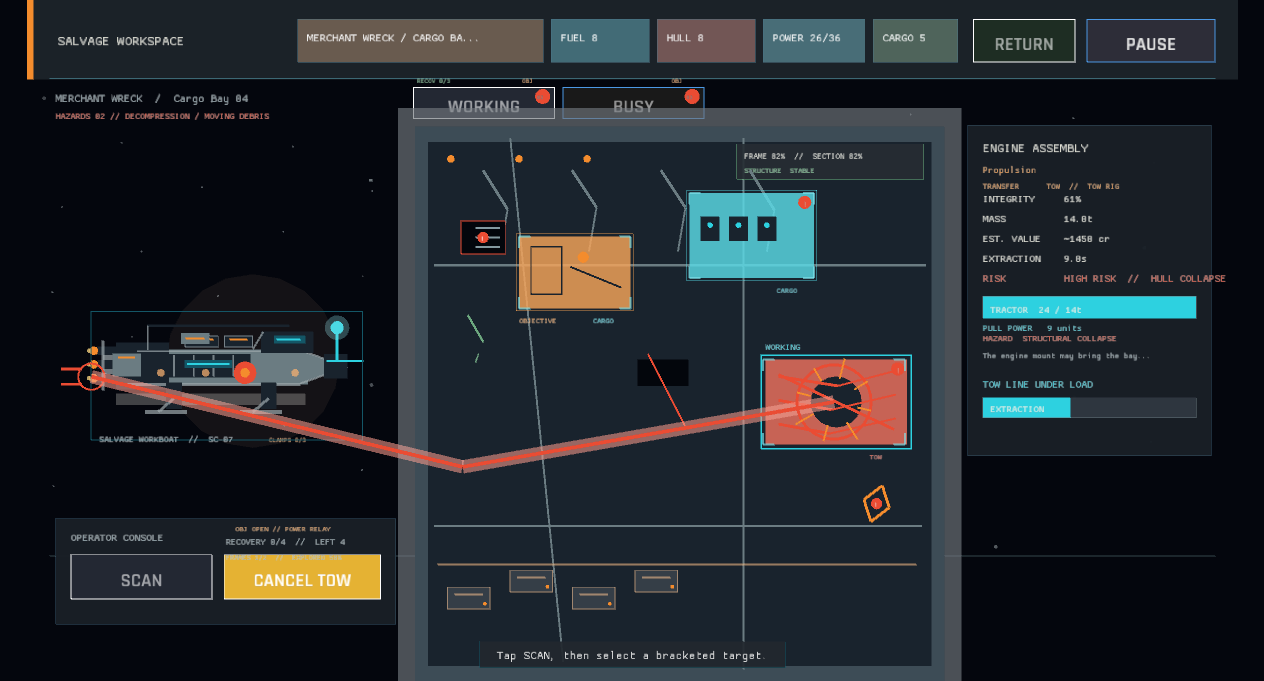
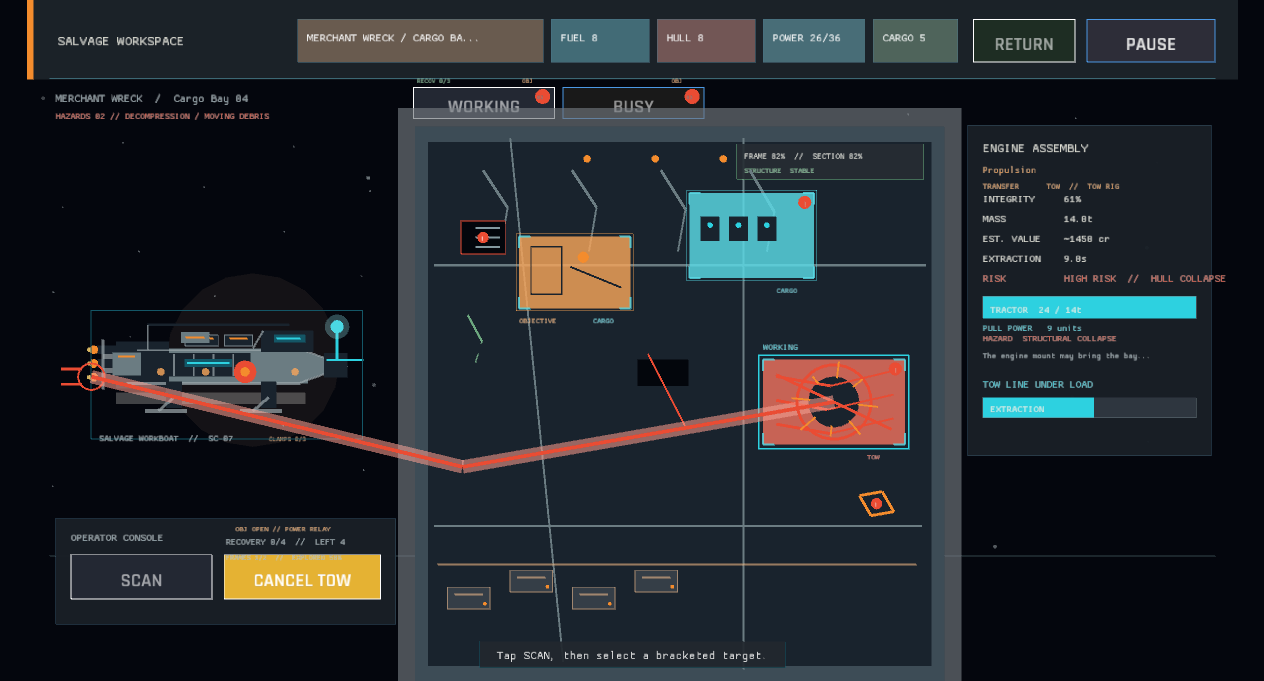
The console names the hazard before the pull (target hazard readout)
The selected-target panel now pairs each authored hazard with its typed response signal using a compact operator label, so the consequence is visible before extraction begins. Added focused readout coverage for known and unknown hazard values and refreshed the hazard-profile verification captures.

diff --git a/src/ui/extraction_panel.rs b/src/ui/extraction_panel.rs
@@ -7,6 +7,9 @@ use crate::engine::WorkspaceHazard;
 use crate::engine::{exposure_label, WorkspaceOutcome};
 use crate::state::workspace::TransferMode;
 
+#[cfg(test)]
+mod tests;
+
 pub fn draw_target_panel(ctx: &UiContext<'_>, layout: SalvageLayout, actions: &mut Vec<UiAction>) {
     let Some(target_id) = ctx.workspace_selected_target else {
         return;
@@ -138,7 +141,7 @@ pub fn draw_target_panel(ctx: &UiContext<'_>, layout: SalvageLayout, actions: &m
     );
     if let Some(hazard) = &target.hazard {
         draw_text(
-            format!("HAZARD  {}", hazard_label(hazard)),
+            hazard_readout(hazard),
             layout.target_panel.x + 16.0,
             layout.target_panel.y + 229.0,
             12.0,
@@ -242,6 +245,21 @@ pub fn draw_target_panel(ctx: &UiContext<'_>, layout: SalvageLayout, actions: &m
     ) {
         actions.push(UiAction::AbandonTarget);
     }
+}
+
+fn hazard_readout(value: &str) -> String {
+    let Some(hazard) = WorkspaceHazard::from_value(value) else {
+        return format!("HAZARD  {}", clipped(&hazard_label(value), 24));
+    };
+    let compact_label = match hazard {
+        WorkspaceHazard::ReactorInstability => "REACTOR",
+        WorkspaceHazard::ElectricalArcs => "ELECTRICAL",
+        WorkspaceHazard::AutomatedDefenses => "DEFENSE",
+        WorkspaceHazard::UnexplodedAmmunition => "ORDNANCE",
+        WorkspaceHazard::MagneticInterference => "MAGNETIC",
+        WorkspaceHazard::StructuralCollapse => "STRUCTURAL",
+    };
+    format!("HAZARD  {compact_label} // {}", hazard.response_label())
 }
 
 fn hazard_signal_for_target(

diff --git a/src/ui/extraction_panel/tests.rs b/src/ui/extraction_panel/tests.rs
@@ -1,0 +1,18 @@
+use super::*;
+
+#[test]
+fn hazard_readout_pairs_compact_label_with_response_signal() {
+    assert_eq!(
+        hazard_readout("structural_collapse"),
+        "HAZARD  STRUCTURAL // HULL COLLAPSE"
+    );
+    assert_eq!(
+        hazard_readout("electrical_arcs"),
+        "HAZARD  ELECTRICAL // ARC FLASH"
+    );
+}
+
+#[test]
+fn unknown_hazard_readout_keeps_operator_label() {
+    assert_eq!(hazard_readout("unknown_hazard"), "HAZARD  UNKNOWN HAZARD");
+}
